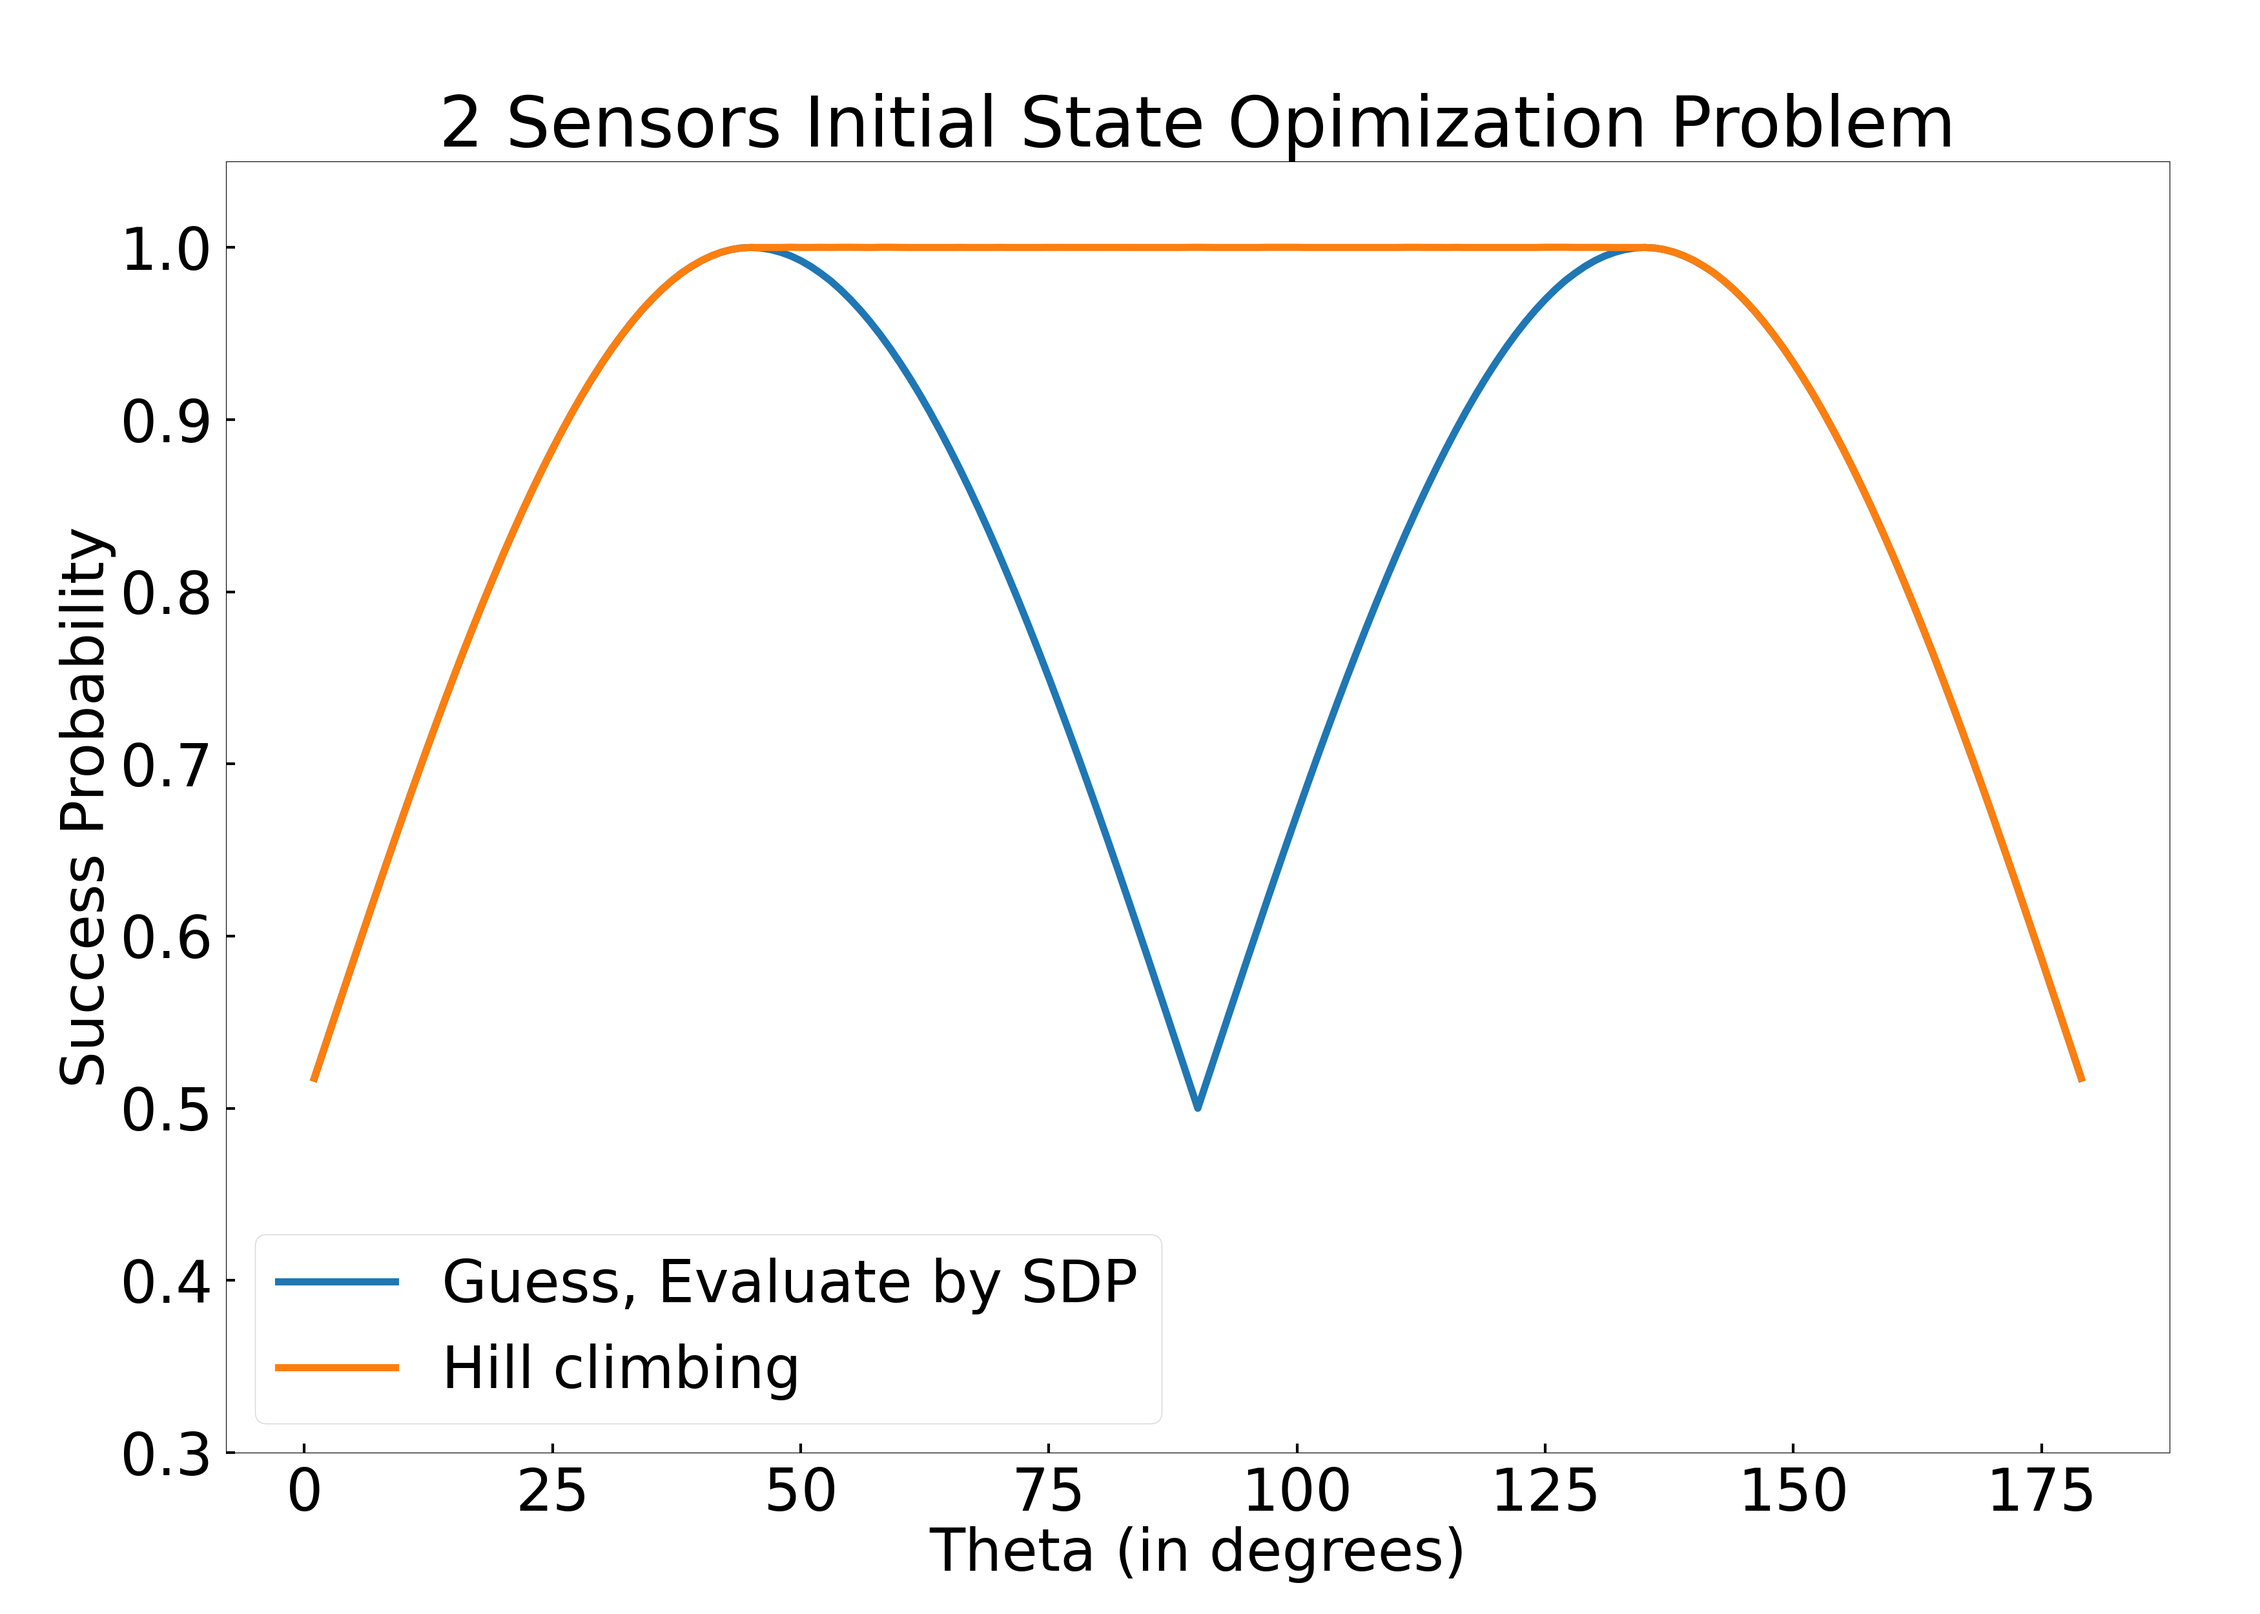
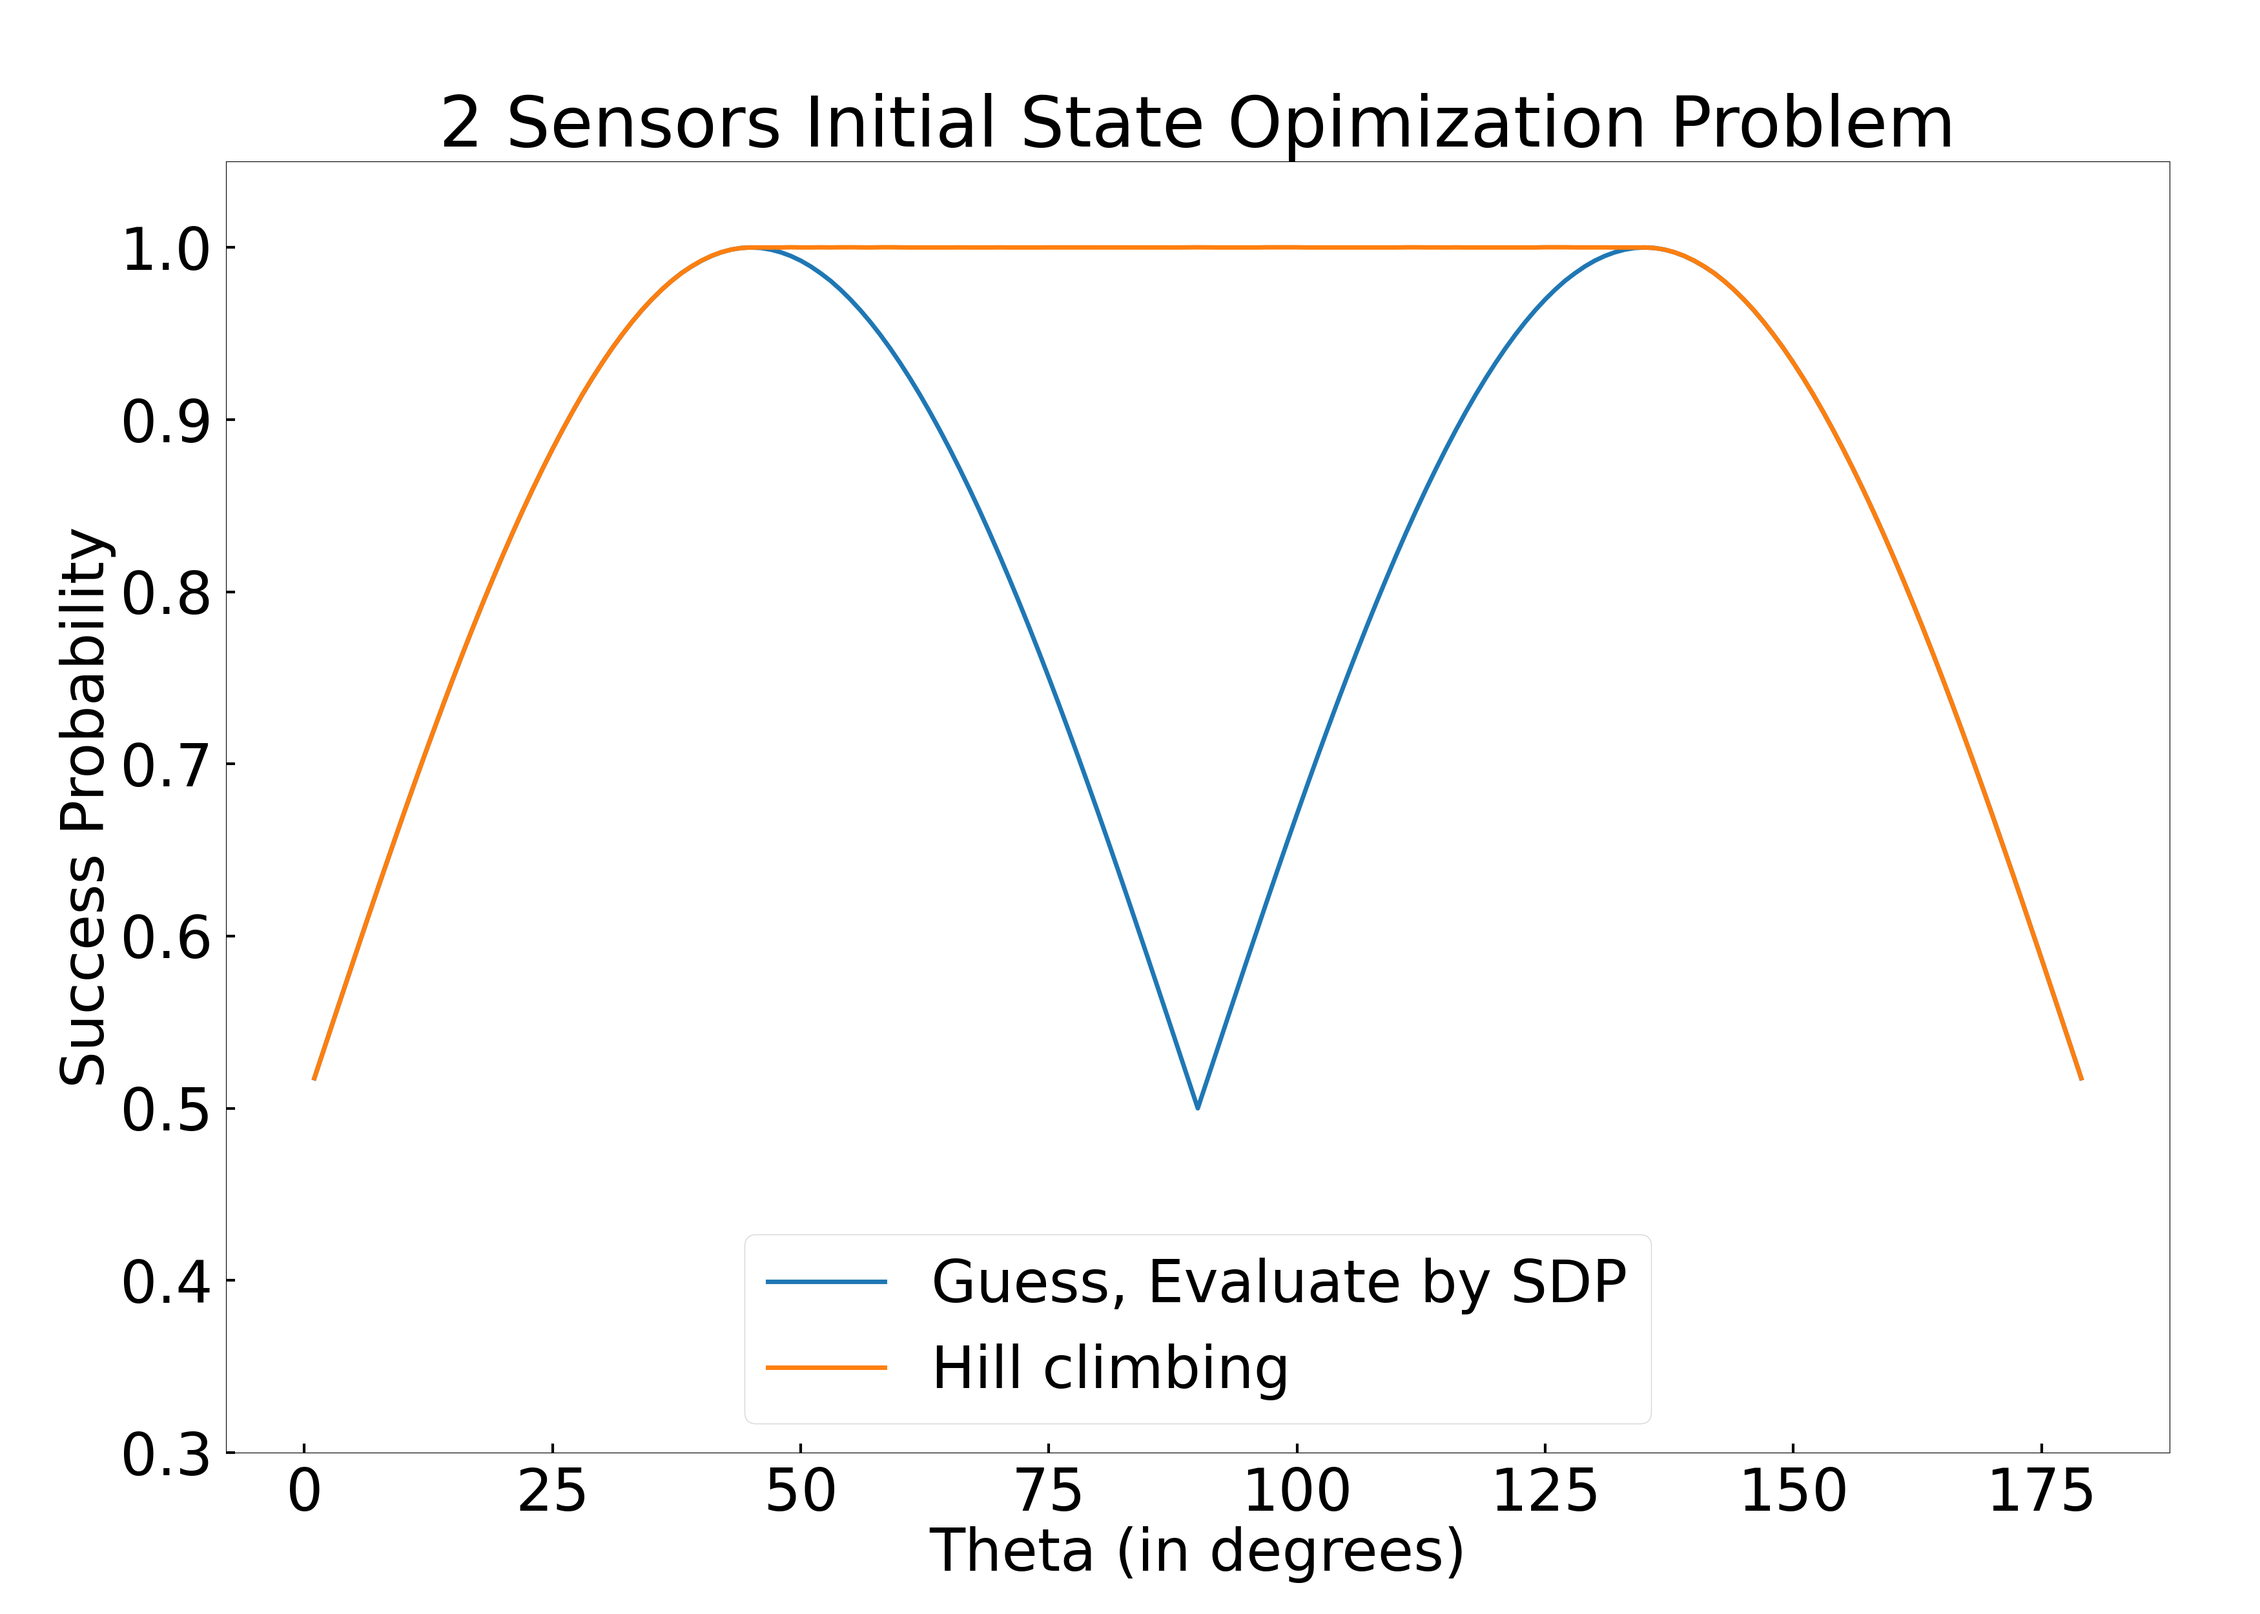
update plots

diff --git a/plot.py b/plot.py
@@ -155,8 +155,67 @@ def vary_startseed():
     Plot.vary_startseed(data, filename)
 
 
+# min error discrimination, 2 sensors, varying the theta of the unitary operator
+def special_u_2sensor(draw: bool):
+    '''
+    Args:
+        draw: if False, then don't plot, only return the plotting data
+    '''
+
+    logs = ['result/5.1.2022/varying_theta_2sensor_minerror']
+    X = []
+    y_guess = []
+    y_hillclimb0 = []
+    y_hillclimb1 = []
+    data = Logger.read_log(logs)
+    for experiment in data:
+        myinput = experiment[0]
+        output_by_method = experiment[1]
+        
+
+        if output_by_method['Hill climbing'].start_seed == 0:
+            X.append(myinput.unitary_theta)
+            y_guess.append(output_by_method['Guess'].success)
+            y_hillclimb0.append(output_by_method['Hill climbing'].success)
+        if output_by_method['Hill climbing'].start_seed == 1:
+            y_hillclimb1.append(output_by_method['Hill climbing'].success)
+        
+        if myinput.unitary_theta in [40, 50, 60, 70, 80, 90] and output_by_method['Hill climbing'].start_seed == 0:
+        # if myinput.unitary_theta in [40, 50, 60, 70, 80, 90]:
+            print('\ntheta =', myinput.unitary_theta)
+            print(output_by_method['Guess'].init_state)
+            print('guess success probability =', output_by_method['Guess'].success)
+            print(output_by_method['Hill climbing'].init_state)
+            print('hill climbing probability =', output_by_method['Hill climbing'].success)
+            print('---')
+
+    y_hillclimb = [max(y0, y1) for y0, y1 in zip(y_hillclimb0, y_hillclimb1)]
+
+    if draw is False:
+        return y_guess, y_hillclimb
+
+    fig, ax = plt.subplots(1, 1, figsize=(35, 25))
+    fig.subplots_adjust(left=0.1, right=0.96, top=0.9, bottom=0.1)
+    ax.plot(X, y_guess, label='Guess, Evaluate by SDP')
+    ax.plot(X, y_hillclimb, label='Hill climbing')
+    ax.legend(loc='lower center')
+    ax.set_xlabel('Theta (in degrees)')
+    ax.set_ylabel('Success Probability')
+    ax.set_title('2 Sensors Initial State Opimization Problem')
+    ax.set_ylim([0.3, 1.05])
+    ax.tick_params(axis='x', direction='in', length=10, width=3, pad=15)
+    ax.tick_params(axis='y', direction='in', length=10, width=3, pad=15)
+    filename = 'result/5.1.2022/varying_theta_2sensors'
+    fig.savefig(filename)
+
+
 # min error discrimination, 3 sensors, varying the theta of the unitary operator
-def special_u():
+def special_u_3sensor(draw: bool):
+    '''
+    Args:
+        draw: if False, then don't plot, only return the plotting data
+    '''
+
     RAD = 180 / np.pi
     def theory(theta):
         alpha = np.sqrt(5 + 4*np.cos(2*theta))
@@ -192,6 +251,10 @@ def special_u():
         y_theory.append(theory(x/RAD))
 
     y_hillclimb = [max(y0, y1) for y0, y1 in zip(y_hillclimb0, y_hillclimb1)]
+
+    if draw is False:
+        return y_guess, y_hillclimb
+
     fig, ax = plt.subplots(1, 1, figsize=(35, 25))
     fig.subplots_adjust(left=0.1, right=0.96, top=0.9, bottom=0.1)
     ax.plot(X, y_theory, label='Guess, Theoritical equation')
@@ -200,59 +263,20 @@ def special_u():
     ax.legend()
     ax.set_xlabel('Theta (in degrees)')
     ax.set_ylabel('Success Probability')
+    ax.set_title('3 Sensors Initial State Opimization Problem')
     ax.tick_params(axis='x', direction='in', length=10, width=3, pad=15)
     ax.tick_params(axis='y', direction='in', length=10, width=3, pad=15)
-    filename = 'result/4.6.2022/varying_theta'
-    fig.savefig(filename)
-
-# min error discrimination, 2 sensors, varying the theta of the unitary operator
-def special_u_2sensor():
-
-    logs = ['result/5.1.2022/varying_theta_2sensor_minerror']
-    X = []
-    y_guess = []
-    y_hillclimb0 = []
-    y_hillclimb1 = []
-    data = Logger.read_log(logs)
-    for experiment in data:
-        myinput = experiment[0]
-        output_by_method = experiment[1]
-        
-
-        if output_by_method['Hill climbing'].start_seed == 0:
-            X.append(myinput.unitary_theta)
-            y_guess.append(output_by_method['Guess'].success)
-            y_hillclimb0.append(output_by_method['Hill climbing'].success)
-        if output_by_method['Hill climbing'].start_seed == 1:
-            y_hillclimb1.append(output_by_method['Hill climbing'].success)
-        
-        if myinput.unitary_theta in [40, 50, 60, 70, 80, 90] and output_by_method['Hill climbing'].start_seed == 0:
-        # if myinput.unitary_theta in [40, 50, 60, 70, 80, 90]:
-            print('\ntheta =', myinput.unitary_theta)
-            print(output_by_method['Guess'].init_state)
-            print('guess success probability =', output_by_method['Guess'].success)
-            print(output_by_method['Hill climbing'].init_state)
-            print('hill climbing probability =', output_by_method['Hill climbing'].success)
-            print('---')
-
-    y_hillclimb = [max(y0, y1) for y0, y1 in zip(y_hillclimb0, y_hillclimb1)]
-    fig, ax = plt.subplots(1, 1, figsize=(35, 25))
-    fig.subplots_adjust(left=0.1, right=0.96, top=0.9, bottom=0.1)
-    ax.plot(X, y_guess, label='Guess, Evaluate by SDP')
-    ax.plot(X, y_hillclimb, label='Hill climbing')
-    ax.legend()
-    ax.set_xlabel('Theta (in degrees)')
-    ax.set_ylabel('Success Probability')
-    ax.set_title('2 Sensors Initial State Opimization Problem')
-    ax.set_ylim([0.3, 1.05])
-    ax.tick_params(axis='x', direction='in', length=10, width=3, pad=15)
-    ax.tick_params(axis='y', direction='in', length=10, width=3, pad=15)
-    filename = 'result/5.1.2022/varying_theta_2sensors'
+    filename = 'result/4.6.2022/varying_theta_3sensors'
     fig.savefig(filename)
 
 
-# min error discrimination, 2 sensors, varying the theta of the unitary operator
-def special_u_4sensor():
+# min error discrimination, 4 sensors, varying the theta of the unitary operator
+def special_u_4sensor(draw: bool):
+    '''
+    Args:
+        draw: if False, then don't plot, only return the plotting data
+    '''
+
     logs = ['result/4.30.2022/varying_theta_4sensor_minerror.guess']
     y_guess = defaultdict(list)
     data = Logger.read_log(logs)
@@ -285,7 +309,10 @@ def special_u_4sensor():
     y_hillclimb = []
     for theta in range(1, 180):
         y_hillclimb.append(max(y_hillclimb0[(theta, 0)], y_hillclimb1[(theta, 1)]))
-        
+    
+    if draw is False:
+        return y_guess, y_hillclimb
+
     fig, ax = plt.subplots(1, 1, figsize=(35, 25))
     fig.subplots_adjust(left=0.1, right=0.96, top=0.9, bottom=0.1)
     ax.plot(X, y_guess, label='Guess, Evaluate by SDP')
@@ -300,6 +327,80 @@ def special_u_4sensor():
     filename = 'result/5.1.2022/varying_theta_4sensors'
     fig.savefig(filename)
 
+# min error discrimination, 5 sensors, varying the theta of the unitary operator
+def special_u_5sensor(draw: bool):
+    '''
+    Args:
+        draw: if False, then don't plot, only return the plotting data
+    '''
+
+    logs = ['result/5.3.2022/varying_theta_5sensor_minerror']
+    y_guess = defaultdict(list)
+    y_hillclimb = defaultdict(list)
+    data = Logger.read_log(logs)
+    for experiment in data:
+        myinput = experiment[0]
+        output_by_method = experiment[1]
+        y_guess[myinput.unitary_theta] = output_by_method['Guess'].success
+        y_hillclimb[myinput.unitary_theta] = output_by_method['Hill climbing'].success
+    guess = []
+    hillclimb = []
+    for theta in range(1, 91):
+        guess.append(y_guess[theta])
+        hillclimb.append(y_hillclimb[theta])
+    y_guess = guess + guess[-2::-1]
+    y_hillclimb = hillclimb + hillclimb[-2::-1]
+    X = [i for i in range(1, 180)]
+
+    if draw is False:
+        return y_guess, y_hillclimb
+
+    fig, ax = plt.subplots(1, 1, figsize=(35, 25))
+    fig.subplots_adjust(left=0.1, right=0.96, top=0.9, bottom=0.1)
+    ax.plot(X, y_guess, label='Guess, Evaluate by SDP')
+    ax.plot(X, y_hillclimb, label='Hill climbing')
+    ax.legend()
+    ax.set_xlabel('Theta (in degrees)')
+    ax.set_ylabel('Success Probability')
+    ax.set_title('5 Sensors Initial State Opimization Problem')
+    # ax.set_ylim([0.3, 1.05])
+    ax.tick_params(axis='x', direction='in', length=10, width=3, pad=15)
+    ax.tick_params(axis='y', direction='in', length=10, width=3, pad=15)
+    filename = 'result/5.3.2022/varying_theta_5sensors'
+    fig.savefig(filename)
+
+
+def special_u_allsensors(guess_2s, hillclimb_2s, guess_3s, hillclimb_3s, guess_4s, hillclimb_4s, guess_5s, hillclimb_5s):
+    X = [i for i in range(1, 180)]
+    fig, ax = plt.subplots(1, 1, figsize=(35, 25))
+    fig.subplots_adjust(left=0.1, right=0.96, top=0.9, bottom=0.1)
+    ax.plot(X, guess_2s, label='2 Sensors')
+    ax.plot(X, guess_3s, label='3 Sensors')
+    ax.plot(X, guess_4s, label='4 Sensors')
+    ax.plot(X, guess_5s, label='5 Sensors')
+    ax.legend()
+    ax.set_xlabel('Theta (in degrees)')
+    ax.set_ylabel('Success Probability')
+    ax.set_title('Initial State Opimization Problem -- Guessing')
+    ax.tick_params(axis='x', direction='in', length=10, width=3, pad=15)
+    ax.tick_params(axis='y', direction='in', length=10, width=3, pad=15)
+    filename = 'result/5.5.2022/varying_theta_allsensors_guess'
+    fig.savefig(filename)
+
+    fig, ax = plt.subplots(1, 1, figsize=(35, 25))
+    fig.subplots_adjust(left=0.1, right=0.96, top=0.9, bottom=0.1)
+    ax.plot(X, hillclimb_2s, label='2 Sensors')
+    ax.plot(X, hillclimb_3s, label='3 Sensors')
+    ax.plot(X, hillclimb_4s, label='4 Sensors')
+    ax.plot(X, hillclimb_5s, label='5 Sensors')
+    ax.legend()
+    ax.set_xlabel('Theta (in degrees)')
+    ax.set_ylabel('Success Probability')
+    ax.set_title('Initial State Opimization Problem -- Hill climbing')
+    ax.tick_params(axis='x', direction='in', length=10, width=3, pad=15)
+    ax.tick_params(axis='y', direction='in', length=10, width=3, pad=15)
+    filename = 'result/5.5.2022/varying_theta_allsensors_hillclimb'
+    fig.savefig(filename)
 
 # unambiguous discrimination, 3 sensors, varying the theta of the unitary operator
 def special_u_2():
@@ -470,7 +571,7 @@ def print_results():
 
 
 # comparing simulated annealing and hill climbing
-def simulated_hillclimb_compare():
+def simulatedanneal_hillclimb_compare():
     # logs = ['result/4.27.2022/varying_theta_3sensor_minerror', 'result/4.28.2022/varying_theta_3sensor_minerror']
     logs = ['result/5.4.2022/simulatedanneal_hillclimb']
     data = Logger.read_log(logs)
@@ -741,12 +842,13 @@ def simulatedanneal_hillclimb_iterations():
     # fig.savefig('result/4.28.2022/simulated-iterations-seed0-1.png')
 
     print('Start seed 0')
-    fig, ax = plt.subplots(1, 1, figsize=(30, 15))
+    fig, ax = plt.subplots(1, 1, figsize=(35, 25))
     fig.subplots_adjust(left=0.15, right=0.96, top=0.9, bottom=0.1)
-    ax.plot(hillclimb0_score, label='Hill Climb')
-    ax.plot(simulated0_score, label='Simulated Anneal')
+    ax.plot(simulated0_score[:51], label='Simulated Annealing')
+    ax.plot(hillclimb0_score[:51], label='Hill Climbing')
+    ax.set_xlabel('Iterations')
     ax.set_ylabel('Success probability')
-    ax.set_title('Simulated & Hill Climb Seed 0')
+    ax.set_title('Simulated annealing VS. Hill Climbing')
     ax.legend()
     fig.savefig('result/5.4.2022/simulatedanneal_hillclimb')
 
@@ -870,22 +972,25 @@ if __name__ == '__main__':
     # vary_numsensors()
     # vary_startseed()
 
-    # special_u()
-    # special_u_2sensor()
-    # special_u_4sensor()
+    # draw = False
+    # guess_2s, hillclimb_2s = special_u_2sensor(draw)
+    # guess_3s, hillclimb_3s = special_u_3sensor(draw)
+    # guess_4s, hillclimb_4s = special_u_4sensor(draw)
+    # guess_5s, hillclimb_5s = special_u_5sensor(draw)
+    # special_u_allsensors(guess_2s, hillclimb_2s, guess_3s, hillclimb_3s, guess_4s, hillclimb_4s, guess_5s, hillclimb_5s)
     # special_u_2()
 
     # print_results()
 
     # upperbound()
 
-    simulated_hillclimb_compare()
 
     # hillclimb_bugfix()
 
     # hillclimb_guess_compare()
 
-    # simulatedanneal_hillclimb_iterations()
+    # simulatedanneal_hillclimb_compare()
+    simulatedanneal_hillclimb_iterations()
 
     # hillclimb_neighbor_compare()
 
